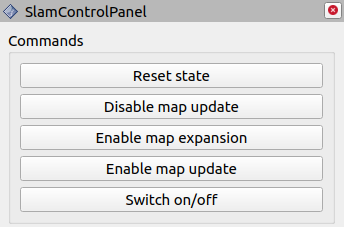
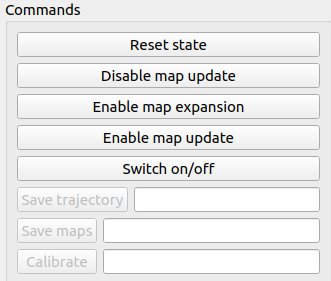
[ROS][doc] Update documentation with new commands

diff --git a/ros_wrapping/lidar_slam/README.md b/ros_wrapping/lidar_slam/README.md
@@ -8,9 +8,11 @@
       - [Online configuration](#online-configuration)
         - [Reset state](#reset-state)
         - [Map update modes](#map-update-modes)
+        - [Save the current trajectory](#save-the-current-trajectory)
         - [Save maps](#save-maps)
         - [Set pose](#set-pose)
         - [Switch ON/OFF the process](#switch-onoff-the-process)
+        - [Calibrate with external pose sensor](#calibrate-with-external-pose-sensor)
       - [Failure detection](#failure-detection)
   - [Optional external sensors use](#optional-external-sensors-use)
     - [Optional GPS use](#optional-gps-use)
@@ -122,6 +124,31 @@ Example :
 rostopic pub -1 /slam_command lidar_slam/SlamCommand "command: 9"
 ```
 
+##### Save the current trajectory
+At any time, the logged poses can be saved in a trajectory CSV file. This file contains several fields to represent the time and the transformation:
+* Time (in seconds)
+* X
+* Y
+* Z
+* rot(0,0)
+* rot(1,0)
+* ...
+* rot(3,3)
+
+**WARNING** Note that the rotation is represented in column major.
+
+The first line of the file contains the frame ID of the pose that is tracked.
+The second line is a header line with the field names.
+
+One can save the trajectory of the base frame :
+```bash
+rostopic pub -1 /slam_command lidar_slam/SlamCommand "{command: 14, string_arg: /path/to/traj/traj.csv}"
+```
+or the trajectory of the LiDAR sensor :
+```bash
+rostopic pub -1 /slam_command lidar_slam/SlamCommand "{command: 15, string_arg: /path/to/traj/traj.csv}"
+```
+
 ##### Save maps
 
 The current maps can be saved as PCD at any time publishing the command `SAVE_KEYPOINTS_MAPS` (to save the whole maps) or the command `SAVE_FILTERED_KEYPOINTS_MAPS` (to remove the potential moving objects) to `slam_command` topic:
@@ -140,9 +167,18 @@ At any time, a pose message (`PoseWithCovarianceStamped`) can be sent through th
 ##### Switch ON/OFF the process
 At any time, the SLAM can be switched ON/OFF using the command message :
 ```bash
-rostopic pub -1 /slam_command lidar_slam/SlamCommand "command: 14"
+rostopic pub -1 /slam_command lidar_slam/SlamCommand "command: 13"
 ```
 This disables the sensor messages handling of the node.
+
+##### Calibrate with external pose sensor
+Another command allows to find the calibration transform between the current tracked pose and the pose tracked by an external sensor and stored in a CSV file. This CSV file must have the same format as the one described in [this section](#save-the-current-trajectory).
+
+```bash
+rostopic pub -1 /slam_command lidar_slam/SlamCommand "{command: 30, string_arg: /path/to/external/poses.csv}"
+```
+
+This command allows to estimate the calibration and to send a static TF transform between the base frame and the frame specified in the CSV file.
 
 #### Failure detection
 
